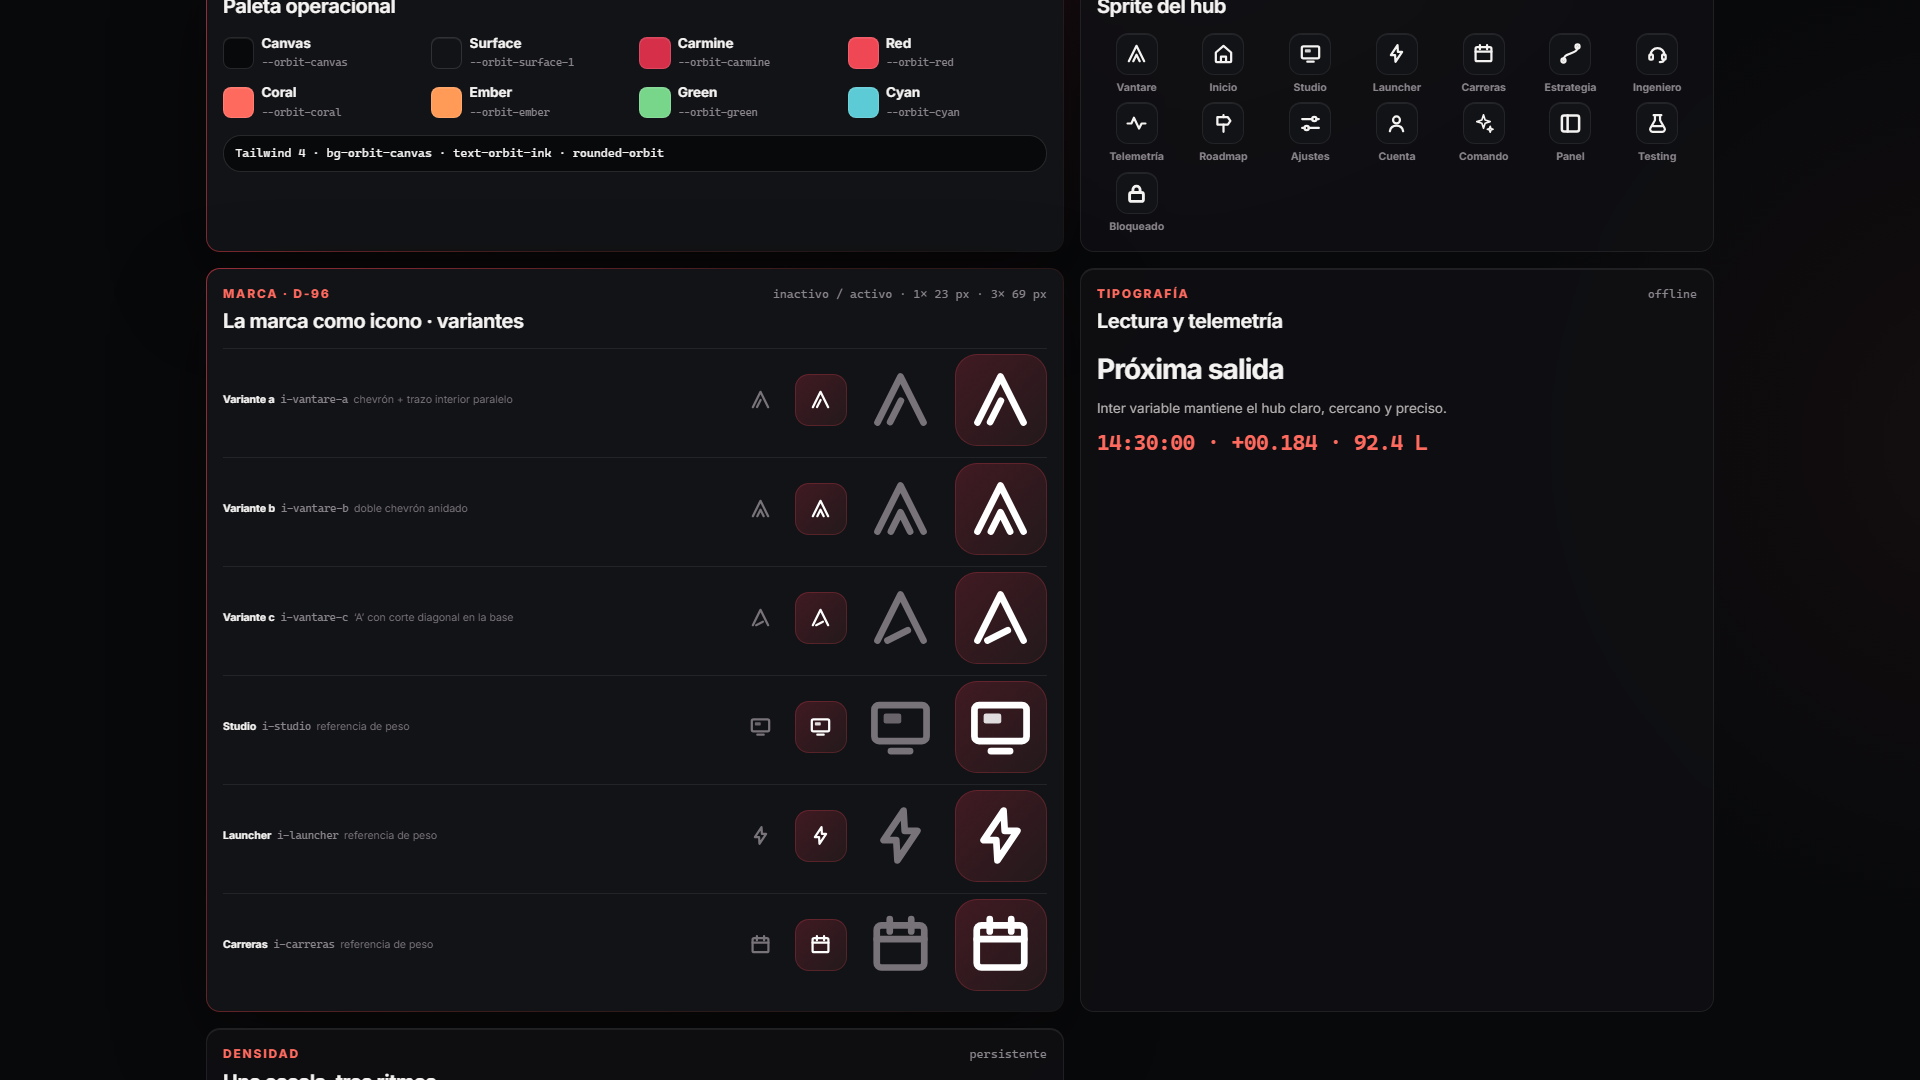
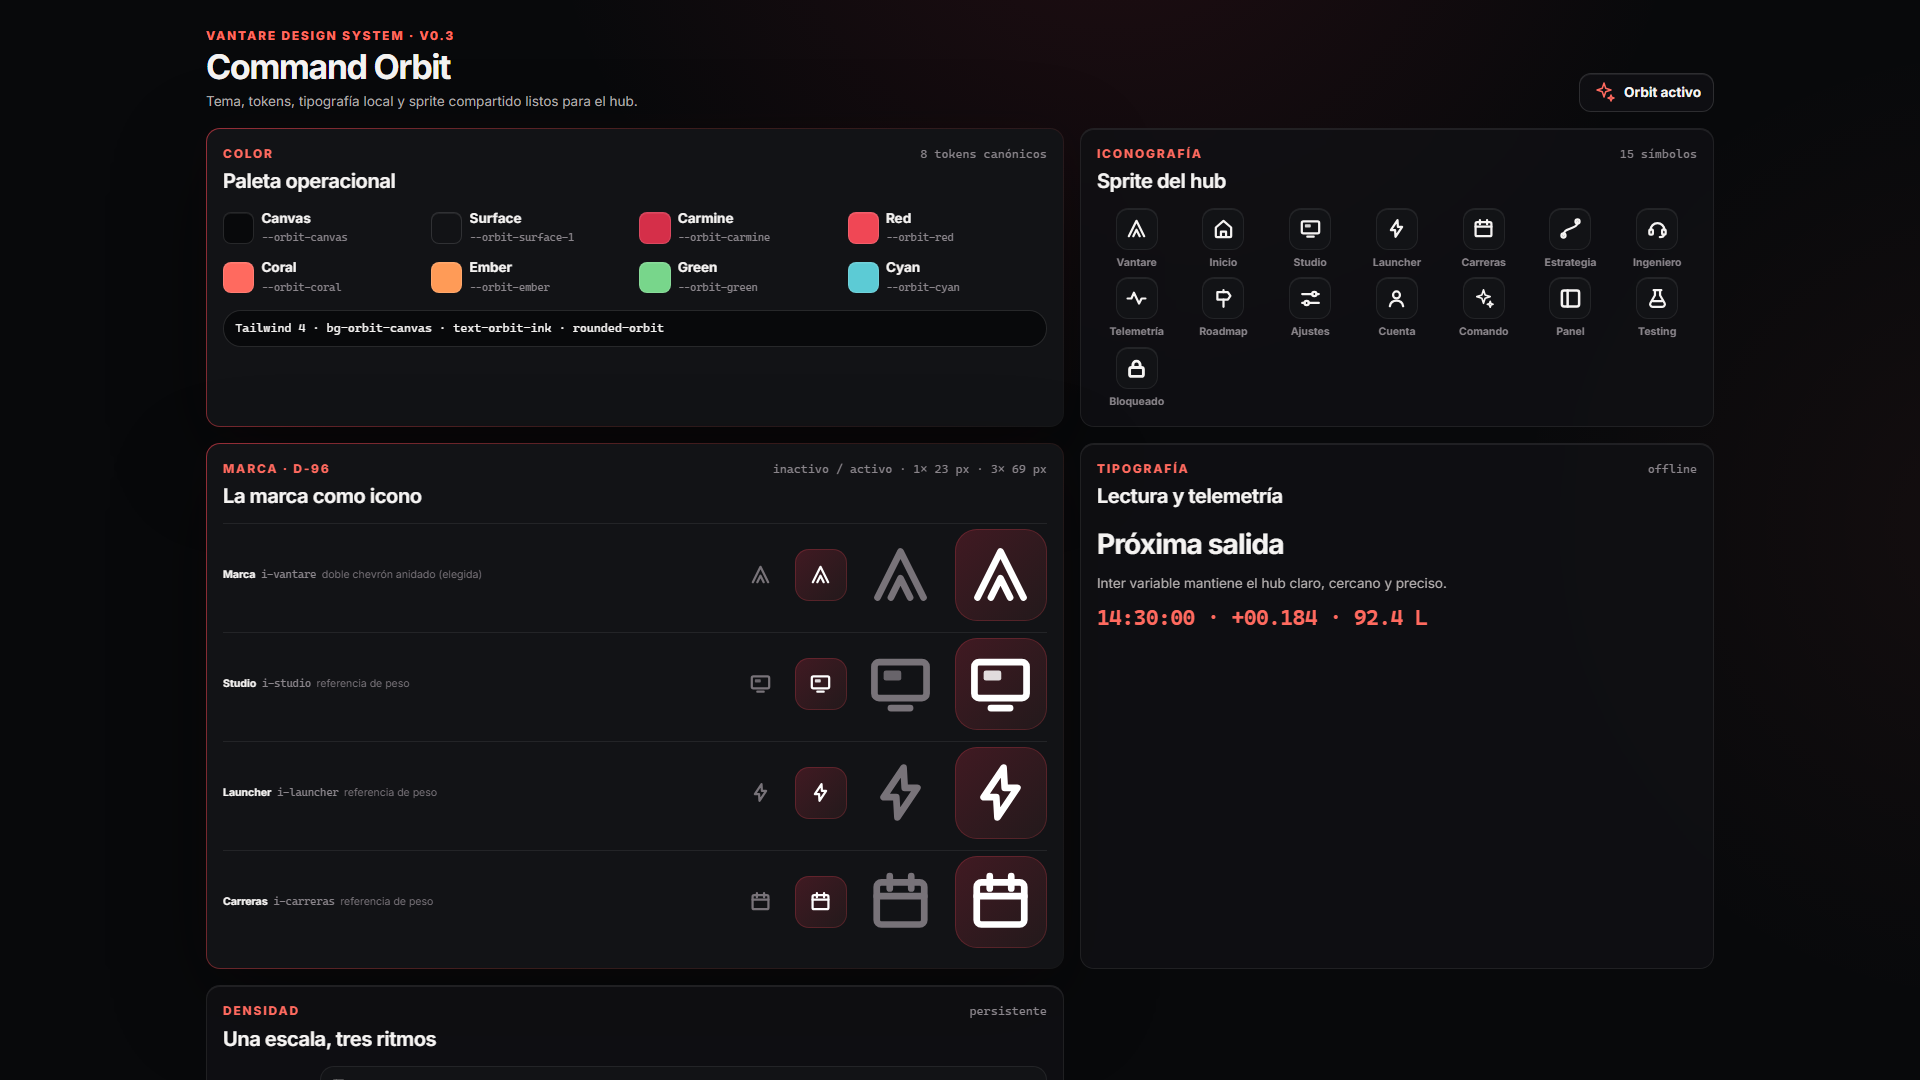
feat(hub): Orbit rail — marca como icono fijada en la variante b (D-97)

diff --git a/vantare-v2/frontend/src/orbit-tokens-harness.tsx b/vantare-v2/frontend/src/orbit-tokens-harness.tsx
@@ -38,12 +38,10 @@ const icons: { name: IconName; label: string }[] = [
   { name: "i-lock", label: "Bloqueado" },
 ];
 
-/** Franja de comparación de la marca como icono (D-96): tres variantes a
- *  decidir, medidas contra tres vecinos del catálogo. */
+/** Franja de control de la marca como icono (D-96/D-97): la variante elegida
+ *  (doble chevrón anidado) medida contra tres vecinos del catálogo. */
 const markRows: { name: IconName; label: string; note: string }[] = [
-  { name: "i-vantare-a", label: "Variante a", note: "chevrón + trazo interior paralelo" },
-  { name: "i-vantare-b", label: "Variante b", note: "doble chevrón anidado" },
-  { name: "i-vantare-c", label: "Variante c", note: "‘A’ con corte diagonal en la base" },
+  { name: "i-vantare", label: "Marca", note: "doble chevrón anidado (elegida)" },
   { name: "i-studio", label: "Studio", note: "referencia de peso" },
   { name: "i-launcher", label: "Launcher", note: "referencia de peso" },
   { name: "i-carreras", label: "Carreras", note: "referencia de peso" },
@@ -116,7 +114,7 @@ export function Harness() {
           <div className="orbit-harness__panel-head">
             <div>
               <p className="orbit-harness__eyebrow">Marca · D-96</p>
-              <h2>La marca como icono · variantes</h2>
+              <h2>La marca como icono</h2>
             </div>
             <span className="orbit-harness__meta">inactivo / activo · 1× 23 px · 3× 69 px</span>
           </div>

diff --git a/vantare-v2/frontend/src/ui/orbit/Icon.tsx b/vantare-v2/frontend/src/ui/orbit/Icon.tsx
@@ -2,9 +2,6 @@ import spriteUrl from "../../assets/orbit-icons.svg?no-inline";
 
 export type IconName =
   | "i-vantare"
-  | "i-vantare-a"
-  | "i-vantare-b"
-  | "i-vantare-c"
   | "i-inicio"
   | "i-studio"
   | "i-launcher"

diff --git a/vantare-v2/docs/design/orbit-v03/00-decisiones.md b/vantare-v2/docs/design/orbit-v03/00-decisiones.md
@@ -341,3 +341,6 @@ Lo que **no** cambia: el diseño, los tokens y los datos. Esto es cableado y est
 - `i-vantare-c` — chevrón + corte diagonal corto en la base interior (`M5.6 15 10.9 12.3`): la ‘A’ estilizada, el travesaño convertido en corte.
 
 Las tres se quedan en el sprite hasta que Isaac decida; `i-vantare`, que es lo que consume `RAIL_ORDER`, copia hoy la variante **b** de forma provisional. La franja de comparación vive en `orbit-tokens-harness` (`data-testid="orbit-mark-variants"`, tres variantes contra tres vecinos del catálogo, en inactivo y activo, a 23 px y a 69 px) y `scripts/orbit-foundations-visual.mjs` la guarda como evidencia de la shell en `evidence/porte/01-shell/orbit-rail-mark-variants.png`. La rejilla de iconos de fundamentos sigue teniendo 15 símbolos: las variantes se pintan en su propio panel para no tocar ese contrato.
+
+## D-97 · La marca como icono es la variante b (doble chevrón anidado)
+**Decisión.** Isaac eligió la variante **b** de D-96 («claramente b»). `i-vantare` queda con `M3 15 9 3l6 12` + `M6.5 15 9 10l2.5 5` en caja 18; los símbolos `i-vantare-a` y `i-vantare-c` (y el alias `i-vantare-b`) se retiran del sprite y de `IconName`. El panel del harness de fundamentos pasa a ser de control (marca elegida contra tres vecinos, 4 filas) y la evidencia se guarda como `evidence/porte/01-shell/orbit-rail-mark.png`.
